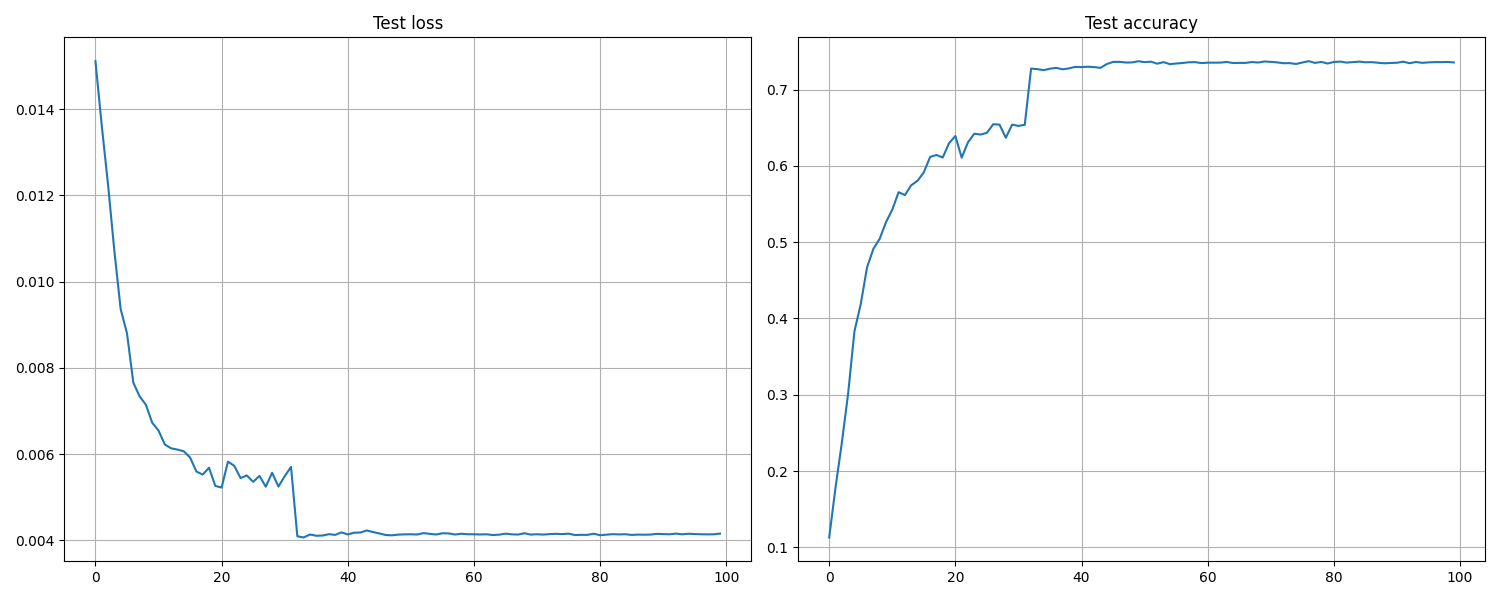
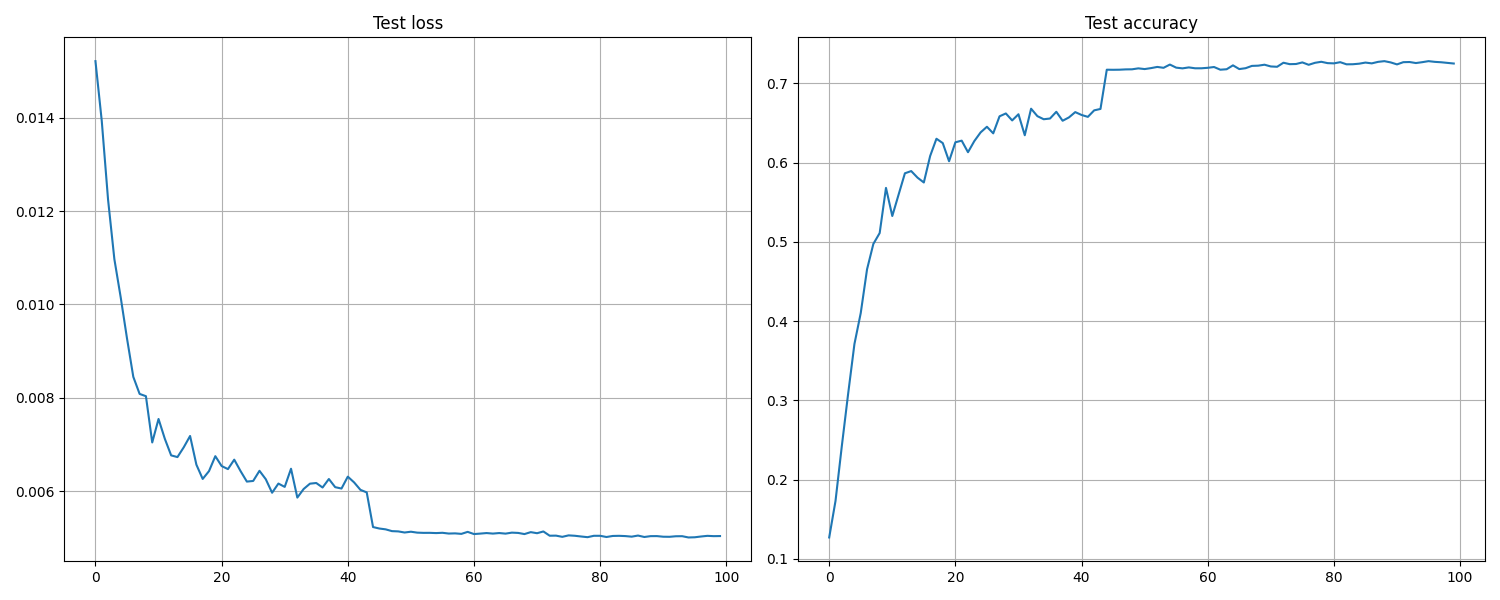
modifiec inception

diff --git a/vision/models/inception_v2.py b/vision/models/inception_v2.py
@@ -20,14 +20,14 @@ class InceptionV2(nn.Module):
         
         conv1out, conv2out, conv3out, conv4out, conv5out = 32, 32, 64, 80, 192
         ch71, out71, out11 = 128, 128, 128
-        ch72, out72, out12 = 128, 192, 192
+        ch72, out72, out12 = 128, 128, 128
         ch73, out73, out13 = 128, 192, 192
-        ch31, ch32, out31, ch33, out32, out14, out15 = 64, 96, 96, 48, 64, 64, 64
+        ch31, ch32, out31, ch33, out32, out14, out15 = 64, 64, 64, 48, 64, 96, 96
         ch74, out74, out16 = 128, 128, 128
-        ch75, out75, out17 = 128, 192, 192
+        ch75, out75, out17 = 128, 128, 128
         ch76, out76, out18 = 128, 192, 192
         ch77, out77, out19 = 128, 192, 192
-        ch34, ch35, out33, ch36, out34, out20, out21 = 64, 96, 96, 48, 64, 64, 64
+        ch34, ch35, out33, ch36, out34, out20, out21 = 64, 64, 64, 48, 64, 96, 96
         ch37, ch38, out35, out36, out22, out23 = 384, 384, 384, 384, 256, 256
         
         self.conv1 = nn.Sequential(
@@ -63,9 +63,9 @@ class InceptionV2(nn.Module):
         self.inception4 = InceptionA(in_channels=(2*out73 + 2*out13), to3x3_1=ch31, to3x3_2=ch32, out3x3_1=out31, 
                                      to3x3_3=ch33, out3x3_2=out32, out1x1_1=out14, out1x1_2=out15)
         self.inception5 = InceptionB(in_channels=(out31+out32+out14+out15), ch7=ch74, out7=out74, out1=out16)
-        self.inception6 = InceptionB(in_channels=(2*out74 + 2*out16), ch7=ch75, out7=out75, out1=out17)
-        self.inception7 = InceptionB(in_channels=(2*out75 + 2*out17), ch7=ch76, out7=out76, out1=out18)
-        self.inception8 = InceptionB(in_channels=(2*out76 + 2*out18), ch7=ch77, out7=out77, out1=out19)
+        self.inception6 = InceptionD(in_channels=(2*out74 + 2*out16), ch7=ch75, out7=out75, out1=out17)
+        self.inception7 = InceptionD(in_channels=(2*out75 + 2*out17), ch7=ch76, out7=out76, out1=out18)
+        self.inception8 = InceptionD(in_channels=(2*out76 + 2*out18), ch7=ch77, out7=out77, out1=out19)
         
         if self.aux_logits:
             self.aux = InceptionAux(in_channels=(2*out77 + 2*out19), num_classes=num_classes)
@@ -288,6 +288,80 @@ class InceptionC(nn.Module):
         return torch.cat([branch1, branch2, branch3, branch4], dim=1)
     
 
+class InceptionD(nn.Module):
+    def __init__(self, in_channels, ch7, out7, out1):
+        super(InceptionD, self).__init__()
+        
+        self.branch1 = nn.Sequential(
+            nn.Conv2d(in_channels=in_channels, out_channels=ch7, kernel_size=1, padding='same'),
+            nn.BatchNorm2d(num_features=ch7),
+            nn.ReLU(),
+            nn.Conv2d(in_channels=ch7, out_channels=ch7, kernel_size=(1, 3), padding=(0, 1)),
+            nn.BatchNorm2d(num_features=ch7),
+            nn.ReLU(),
+            nn.Conv2d(in_channels=ch7, out_channels=ch7, kernel_size=(3, 1), padding=(1, 0)),
+            nn.BatchNorm2d(num_features=ch7),
+            nn.ReLU(),
+            nn.Conv2d(in_channels=ch7, out_channels=ch7, kernel_size=(1, 3), padding=(0, 1)),
+            nn.BatchNorm2d(num_features=ch7),
+            nn.ReLU(),
+            nn.Conv2d(in_channels=ch7, out_channels=ch7, kernel_size=(3, 1), padding=(1, 0)),
+            nn.BatchNorm2d(num_features=ch7),
+            nn.ReLU(),            
+            nn.Conv2d(in_channels=ch7, out_channels=ch7, kernel_size=(1, 3), padding=(0, 1)),
+            nn.BatchNorm2d(num_features=ch7),
+            nn.ReLU(),
+            nn.Conv2d(in_channels=ch7, out_channels=ch7, kernel_size=(3, 1), padding=(1, 0)),
+            nn.BatchNorm2d(num_features=ch7),
+            nn.ReLU(),
+            nn.Conv2d(in_channels=ch7, out_channels=ch7, kernel_size=(1, 3), padding=(0, 1)),
+            nn.BatchNorm2d(num_features=ch7),
+            nn.ReLU(),
+            nn.Conv2d(in_channels=ch7, out_channels=out7, kernel_size=(3, 1), padding=(1, 0)),
+            nn.BatchNorm2d(num_features=out7),
+            nn.ReLU()
+        )
+        
+        self.branch2 = nn.Sequential(
+            nn.Conv2d(in_channels=in_channels, out_channels=ch7, kernel_size=1, padding='same'),
+            nn.BatchNorm2d(num_features=ch7),
+            nn.ReLU(),
+            nn.Conv2d(in_channels=ch7, out_channels=ch7, kernel_size=(1, 3), padding=(0, 1)),
+            nn.BatchNorm2d(num_features=ch7),
+            nn.ReLU(),
+            nn.Conv2d(in_channels=ch7, out_channels=ch7, kernel_size=(3, 1), padding=(1, 0)),
+            nn.BatchNorm2d(num_features=ch7),
+            nn.ReLU(),
+            nn.Conv2d(in_channels=ch7, out_channels=ch7, kernel_size=(1, 3), padding=(0, 1)),
+            nn.BatchNorm2d(num_features=ch7),
+            nn.ReLU(),
+            nn.Conv2d(in_channels=ch7, out_channels=out7, kernel_size=(3, 1), padding=(1, 0)),
+            nn.BatchNorm2d(num_features=out7),
+            nn.ReLU()
+        )
+        
+        self.branch3 = nn.Sequential(
+            nn.AvgPool2d(kernel_size=3, stride=1, padding=1),
+            nn.Conv2d(in_channels=in_channels, out_channels=out1, kernel_size=1, padding='same'),
+            nn.BatchNorm2d(num_features=out1),
+            nn.ReLU()
+        )
+        
+        self.branch4 = nn.Sequential(
+            nn.Conv2d(in_channels=in_channels, out_channels=out1, kernel_size=1, padding='same'),
+            nn.BatchNorm2d(num_features=out1),
+            nn.ReLU()
+        )
+        
+    def forward(self, x):
+        branch1 = self.branch1(x)
+        branch2 = self.branch2(x)
+        branch3 = self.branch3(x)
+        branch4 = self.branch4(x)
+        
+        return torch.cat([branch1, branch2, branch3, branch4], dim=1)
+    
+    
 class InceptionAux(nn.Module):
     def __init__(self, in_channels, num_classes):
         super(InceptionAux, self).__init__()
